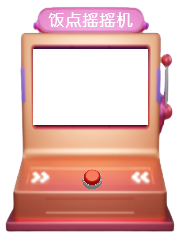
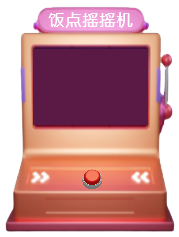
摇一摇倒计时、更换背景图、动态添加摇一摇数据

Changed region(s): [[0.1676, 0.2068, 0.838, 0.5316]]

diff --git a/src/views/HomeView.vue b/src/views/HomeView.vue
@@ -15,7 +15,7 @@
       <div class="right-box">
         <div class="winner-area">
           <h3>摇摇机动态</h3>
-          <div class="lottery-content" :style="{'--activity-lottery-height': lotteryListHeight}">
+          <div class="lottery-content" :style="{'--activity-lottery-height': lotteryListHeight, '--activity-lottery-time': lotteryListAnimationTimeText}">
             <ul ref="lotteryList">
               <li v-for="(item, index) in scrollNames" :key="index">
                 <span>{{ item.name }} 今天吃 </span><span class="food">{{ `#${item.food}#` }}</span>
@@ -23,14 +23,14 @@
             </ul>
           </div>
         </div>
-        <button size="medium" @click="beginShake" class="start" :disabled="disabled">摇一摇</button>
+        <el-button size="medium" @click="beginShake" class="start" :disabled="disabled">{{countDownText}}</el-button>
       </div>
     </div>
   </div>
 </template>
 <script>
-import initStatus from '@/assets/init_status.png'
-import lottering from '@/assets/lottering.png'
+import initStatus from '@/imgs/lottery/init_status.png'
+import lottering from '@/imgs/lottery/lottering.png'
 
 export default {
   name: "lottery",
@@ -41,21 +41,17 @@ export default {
       isChangeFood: true,
       disabled: false,
       foodListHeight: '',
-      lotteryListHeight: '',
+      lotteryListHeight: '-135px',
+      lotteryListAnimationTime: 4,
+      lotteryListAnimationTimeText: '4s',
       food: '',
+      countDownText: '摇一摇',
       scrollNames: [
         { name: '吴多萍', food: '烧烤' },
-        { name: '卢佳佳', food: '外婆家的菜' },
+        { name: '卢佳佳', food: '外婆家的菜外婆家的菜外婆家的菜' },
         { name: '吴多萍', food: '嘉陵食堂' },
         { name: '卢佳佳', food: '烧烤' },
         { name: '吴多萍', food: '烧烤' },
-        { name: '卢佳佳', food: '外婆家的菜' },
-        { name: '吴多萍', food: '嘉陵食堂' },
-        { name: '卢佳佳', food: '烧烤' },
-        { name: '吴多萍', food: '烧烤' },
-        { name: '卢佳佳', food: '外婆家的菜' },
-        { name: '吴多萍', food: '嘉陵食堂' },
-        { name: '卢佳佳', food: '烧烤' },
       ],
       foods: [
         '兰州拉面',
@@ -70,14 +66,11 @@ export default {
       ],
     };
   },
-  mounted() {
-    // 获取获奖名单所在盒子高度
-    this.lotteryListHeight = '-' + this.$refs.lotteryList.offsetHeight + 'px'
-  },
   methods: {
     beginShake() {
       this.imgUrl = lottering
       this.isShowFoodList = true;
+      this.countDown()
 
       // 获取食品列表所在盒子高度
       this.$nextTick(() => {
@@ -88,6 +81,10 @@ export default {
       // 5秒后随机产生一种食物
       setTimeout(() => {
         this.food = this.foods[this.getRandomIntInclusive(0,3)]
+        this.scrollNames.push({name: 'Cyan', food: this.food})
+        // 刷新获奖名单所在盒子高度
+        this.lotteryListHeight = '-' + this.$refs.lotteryList.offsetHeight + 'px'
+        this.lotteryListAnimationTimeText = ++this.lotteryListAnimationTime +'s'
         this.isShowFoodList = false
       }, 5000)
 
@@ -95,6 +92,15 @@ export default {
         this.imgUrl = initStatus
         this.disabled = false
       }, 7000)
+    },
+
+    countDown() {
+      let countDownNumber = 5
+      this.countDownText = countDownNumber
+      const countDownInterval = setInterval(() => {
+        this.countDownText = countDownNumber === 0 ? '摇一摇' : --countDownNumber
+        if (this.countDownText === '摇一摇') clearInterval(countDownInterval)
+      }, 1000)
     },
 
     getRandomIntInclusive(min, max) {
@@ -117,11 +123,12 @@ export default {
     position: relative;
     .random-machine {
       width: 120px;
-      height: 24px;
+      height: 75px;
+      line-height: 75px;
       overflow: hidden;
       position: absolute;
       left: 50%;
-      top: 75px;
+      top: 50px;
       transform: translateX(-50%);
       @keyframes activity-foods-slider {
         0% {
@@ -136,7 +143,7 @@ export default {
         color: #fff;
       }
       ul {
-        animation: 6s activity-foods-slider linear infinite;
+        animation: 1s activity-foods-slider linear infinite;
       }
     }
   }
@@ -164,10 +171,8 @@ export default {
       }
       ul {
         margin-left: 15px;
-        animation: 10s activity-lottery-slider linear infinite;
+        animation: var(--activity-lottery-time) activity-lottery-slider linear infinite;
         li {
-          display: flex;
-          align-items: center;
           margin: 10px 0;
           font-size: 14px;
           .food {
@@ -176,8 +181,10 @@ export default {
           }
           &::before {
             content: "";
+            display: inline-block;
             width: 4px;
             height: 4px;
+            vertical-align: middle;
             border-radius: 50%;
             margin-right: 5px;
             background-color: #000;
@@ -188,13 +195,18 @@ export default {
         }
       }
     }
+    .el-button {
+      border: 1px solid transparent;
+      padding: 0;
+    }
+    ::v-deep .el-button--medium {
+      padding: 0;
+      font-size: 16px;
+    }
     .start {
       display: block;
       margin: 10px auto 0;
-      padding: 0;
       width: 120px;
-      border: 1px solid transparent;
-      font-size: 16px;
       background-color: #f560a5;
       color: #fff;
       font-weight: bold;
@@ -206,4 +218,3 @@ export default {
   }
 }
 </style>
-
